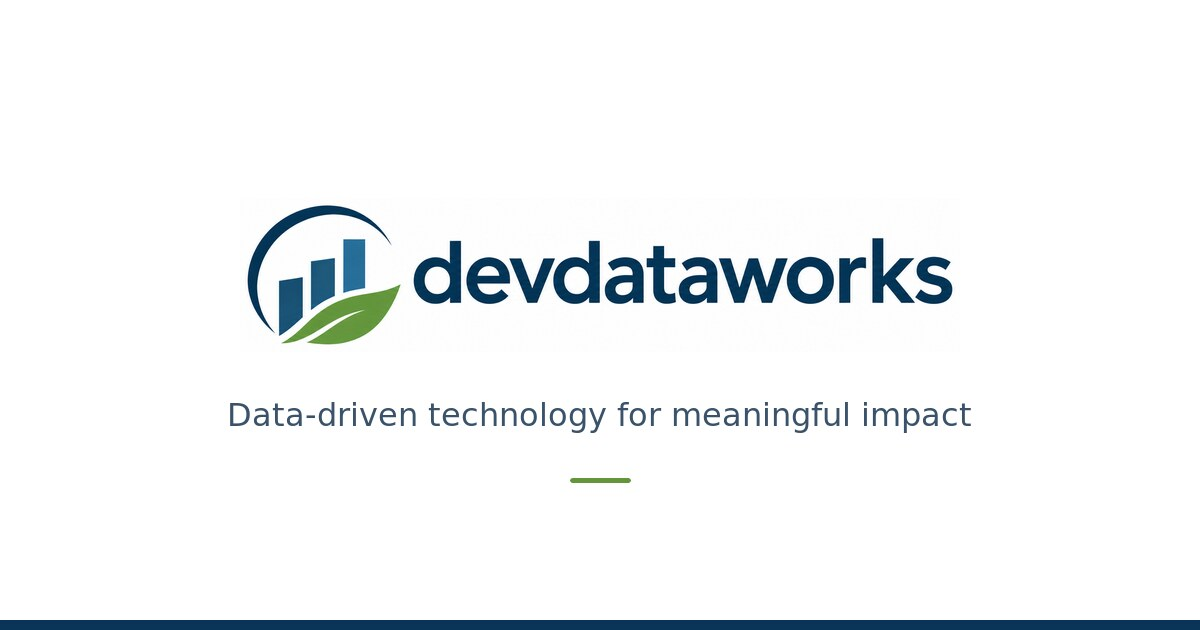
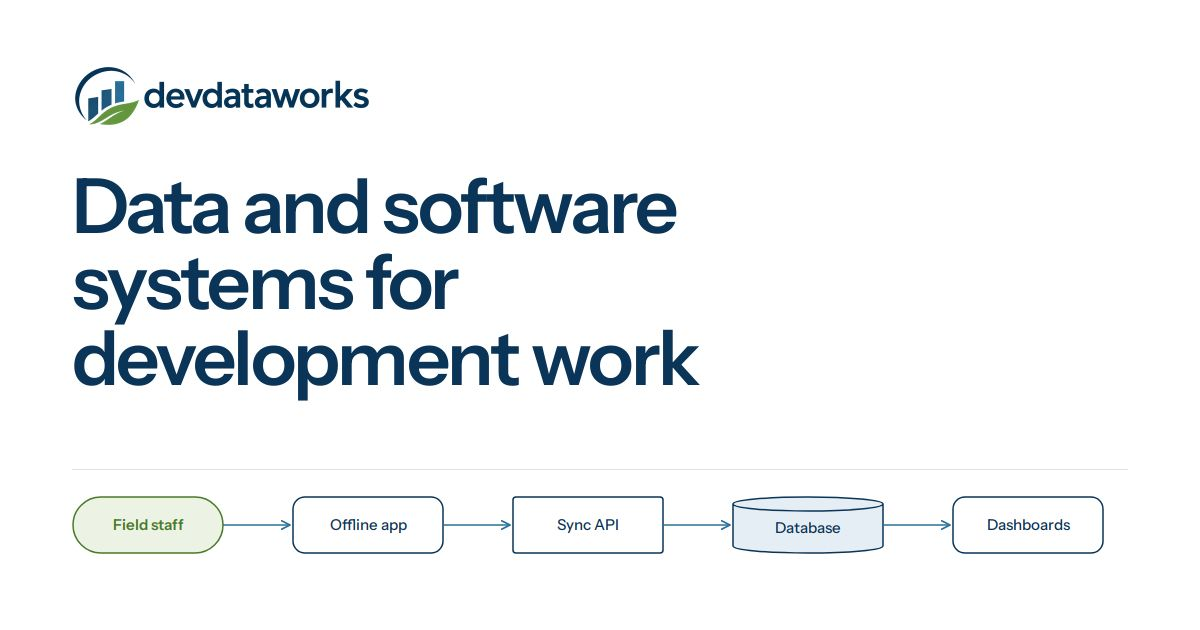
[#2] Reproducible OG image from a committed template

diff --git a/scripts/og/og.html b/scripts/og/og.html
@@ -1,0 +1,49 @@
+<!doctype html>
+<!-- Template for public/og-image.jpg (1200 x 630). Regenerate with: npm run og -->
+<html lang="en">
+<head>
+<meta charset="utf-8" />
+<style>
+  @font-face {
+    font-family: 'Instrument Sans';
+    src: url('../../node_modules/@fontsource-variable/instrument-sans/files/instrument-sans-latin-wght-normal.woff2') format('woff2');
+    font-weight: 400 700;
+  }
+  html, body { margin: 0; width: 1200px; height: 630px; overflow: hidden; }
+  body {
+    display: grid; grid-template-rows: auto 1fr auto; padding: 64px 72px;
+    box-sizing: border-box; background: #fff; color: #0b3558;
+    font-family: 'Instrument Sans', system-ui, sans-serif;
+  }
+  img { height: 64px; }
+  h1 { margin: 40px 0 0; font-size: 76px; line-height: 1; letter-spacing: -0.035em; font-weight: 600; max-width: 15ch; }
+  svg { width: 100%; height: auto; }
+  .n { fill: #fff; stroke: #0b3558; stroke-width: 1.5; }
+  .p { fill: #ecf3e5; stroke: #4a7a2a; }
+  .s { fill: #e5eef5; }
+  .t { font: 500 15px 'Instrument Sans', sans-serif; fill: #0b3558; text-anchor: middle; }
+  .tp { fill: #4a7a2a; font-weight: 600; }
+  .e { stroke: #2a6f99; stroke-width: 1.5; fill: none; }
+  .a { fill: none; stroke: #2a6f99; stroke-width: 1.6; stroke-linecap: round; stroke-linejoin: round; }
+  footer { border-top: 1px solid #dbe4ea; padding-top: 20px; font-size: 22px; color: #5d7287; }
+</style>
+</head>
+<body>
+  <img src="../../src/assets/logo.png" alt="" />
+  <h1>Data and software systems for development work</h1>
+  <footer>
+    <svg viewBox="0 0 1056 70" aria-hidden="true">
+      <defs><marker id="og-a" viewBox="0 0 10 10" refX="9" refY="5" markerWidth="7" markerHeight="7" orient="auto"><path class="a" d="M1 1L9 5L1 9"/></marker></defs>
+      <rect class="n p" x="1" y="7" width="150" height="56" rx="28"/><text class="t tp" x="76" y="40">Field staff</text>
+      <path class="e" marker-end="url(#og-a)" d="M151 35H218"/>
+      <rect class="n" x="221" y="7" width="150" height="56" rx="12"/><text class="t" x="296" y="40">Offline app</text>
+      <path class="e" marker-end="url(#og-a)" d="M371 35H438"/>
+      <rect class="n" x="441" y="7" width="150" height="56" rx="3"/><text class="t" x="516" y="40">Sync API</text>
+      <path class="e" marker-end="url(#og-a)" d="M591 35H658"/>
+      <path class="n s" d="M661 14v42a75 7 0 0 0 150 0V14a75 7 0 0 0-150 0a75 7 0 0 0 150 0"/><text class="t" x="736" y="43">Database</text>
+      <path class="e" marker-end="url(#og-a)" d="M811 35H878"/>
+      <rect class="n" x="881" y="7" width="150" height="56" rx="12"/><text class="t" x="956" y="40">Dashboards</text>
+    </svg>
+  </footer>
+</body>
+</html>
